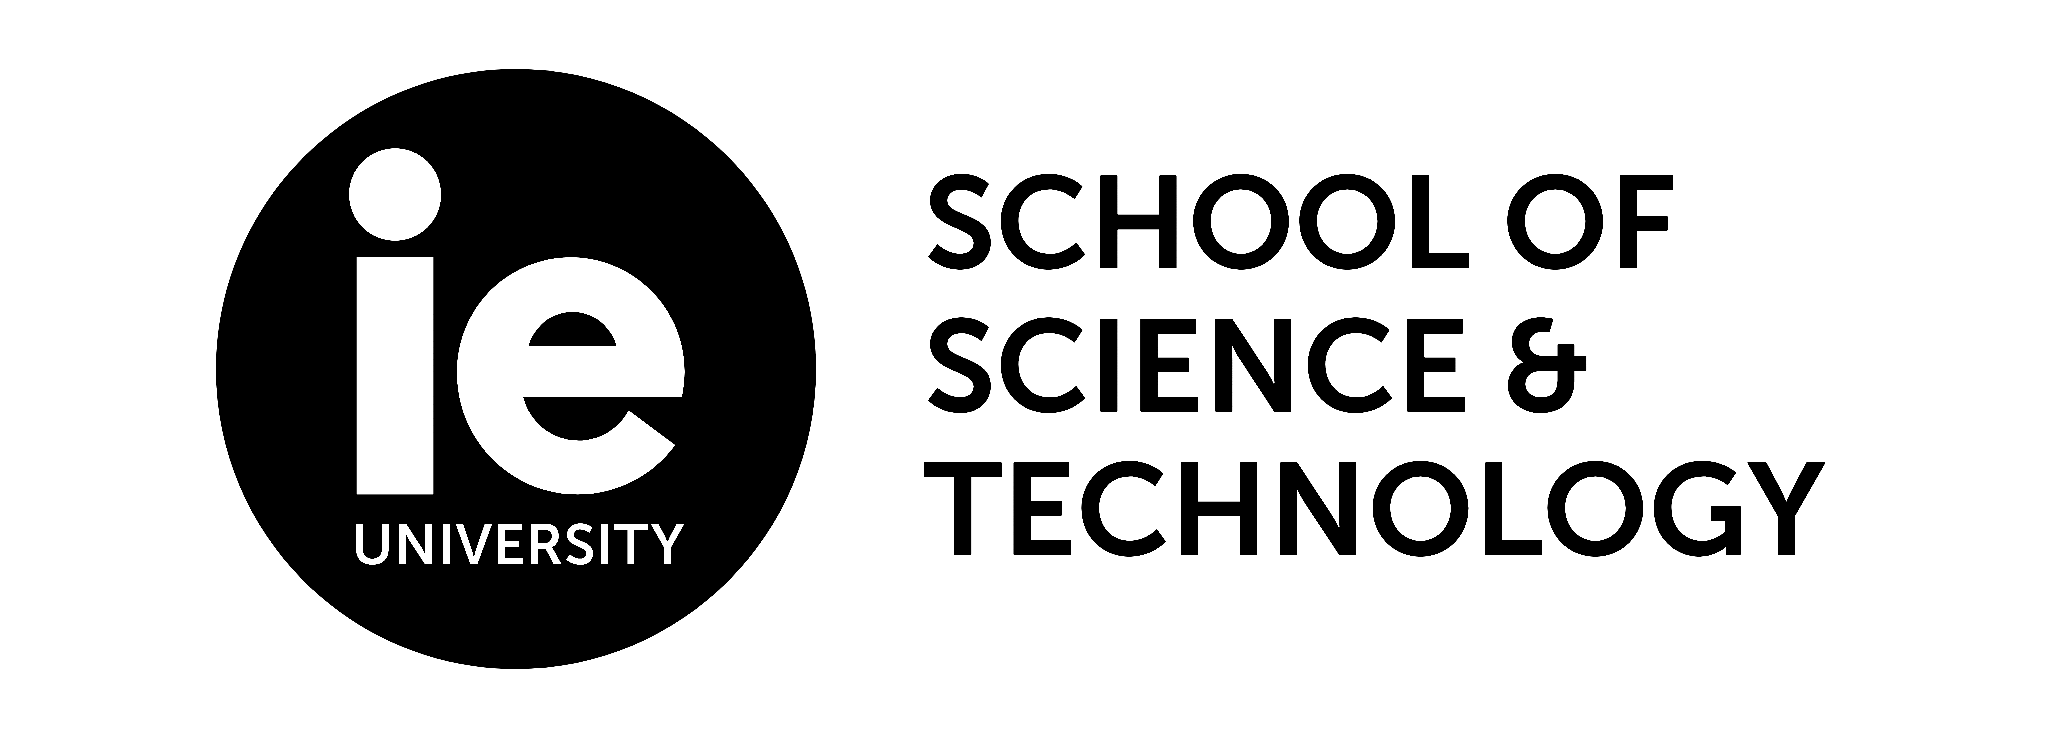
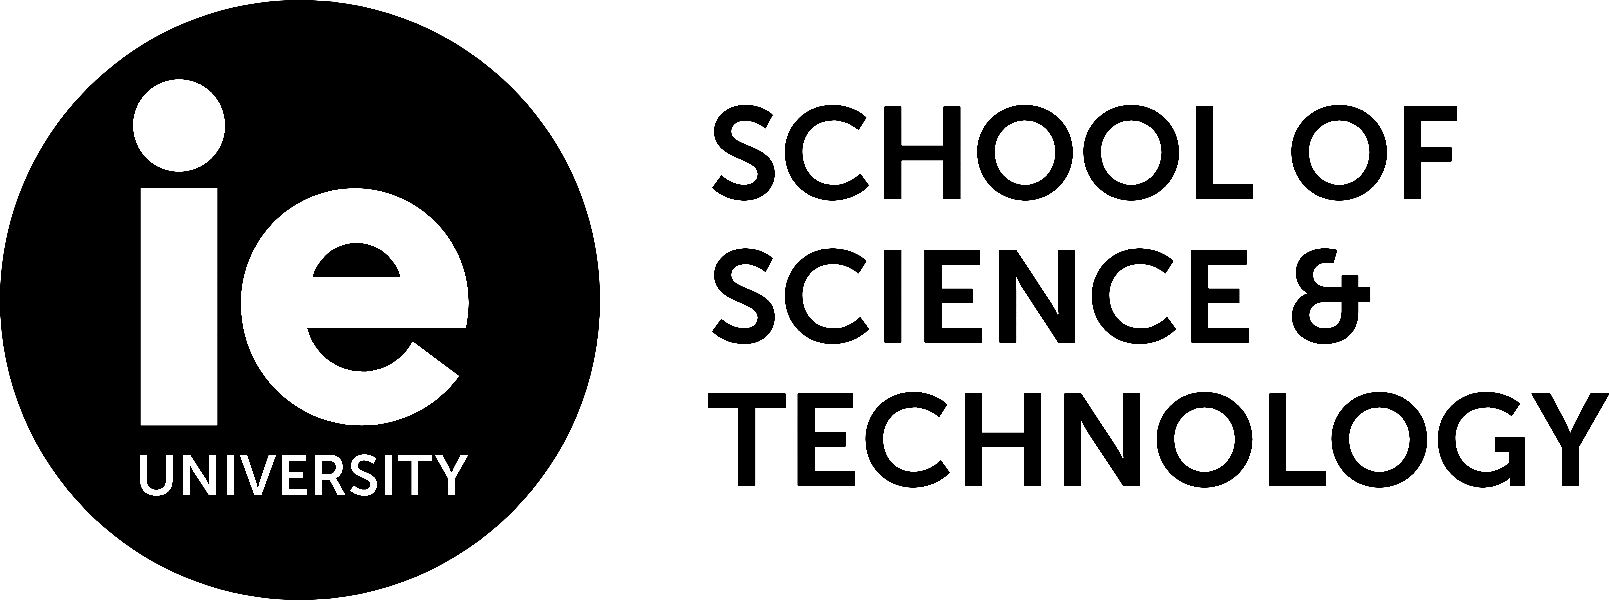
Bottom row: school left, IEX right, sized evenly with the columns above
Layout is now a 2x2 grid. The bottom row reuses .pair, so both small logos sit
on exactly the same column centres as the two logos above them (verified:
top/bottom centres identical, mirrored about the centre line).

Evenness needed two fixes:
- Trimmed transparent padding off both assets. AccentColo.png filled only 17%
  of its square canvas vs school1.png's 62%, so identical boxes would have
  rendered wildly different visual sizes. Now 1609x600 and 323x61.
- Their aspects still differ a lot (2.68 vs 5.30), so left to fill their cells
  IEX rendered 595x112 against school's 348x130. --small-width caps both to one
  width (now 464 each); margin-inline:auto keeps each centred in its own half.

AccentColo.png is navy on transparency, near-invisible on this backdrop, so it
gets brightness(0) invert(1) to force white. school1.png keeps plain invert(1):
its "ie" is knocked out of a solid disc and flattening would swallow it.

diff --git a/lab-display.html b/lab-display.html
@@ -10,8 +10,9 @@
   SETUP
   1. Set PLAYLIST_ID below to the "list=" value from the playlist URL.
         https://www.youtube.com/playlist?list=PLabc123...   ->  'PLabc123...'
-  2. Keep logo.png (top left), CPL_Logo.png (top right) and school1.png
-     (centred below the pair) in the same folder as this file.
+  2. Keep all four logos in the same folder as this file. They sit in a 2x2
+     grid: logo.png and CPL_Logo.png on top, school1.png and AccentColo.png
+     smaller beneath them.
   3. Serve the folder over HTTP — opening the file directly with file:// breaks
      the YouTube embed:
         cd /path/to/this/folder
@@ -28,7 +29,8 @@
     --row-height: 58vh;         /* height of the top pair */
     --stack-gap: 2vh;           /* pair -> school logo */
     --wordmark-lift: 6vh;       /* how much higher the right logo rides */
-    --school-height: 24vh;      /* size of the school lockup below */
+    --small-height: 18vh;       /* height of the bottom pair's cells */
+    --small-width: 28%;         /* both bottom logos render to this width */
     --fade: 700ms;
   }
 
@@ -52,12 +54,20 @@
   }
   #logo.visible { opacity: 1; visibility: visible; }
 
-  /* Top pair: each takes half the width, contain keeps its own aspect ratio. */
+  /* Both rows split the width in half, so all four logos share two columns
+     and the card stays symmetrical about the centre line. */
   #logo .pair {
     display: flex; align-items: center; justify-content: center;
     gap: var(--logo-gap); width: 100%; height: var(--row-height);
   }
+  #logo .pair.small { height: var(--small-height); }
   #logo .pair img { flex: 1 1 0; min-width: 0; max-height: 100%; object-fit: contain; }
+
+  /* The bottom two have very different aspect ratios (2.68 vs 5.30), so left to
+     fill their cells they'd render at wildly different sizes. Capping both to
+     one width makes them even; the auto margins keep each centred on the same
+     column as the logo above it. */
+  #logo .pair.small img { max-width: var(--small-width); margin-inline: auto; }
 
   /* CPL_Logo.png is black-on-white, the inverse of logo.png's white-on-dark.
      Inverting it gives white-on-black, and screen blending drops that black
@@ -68,11 +78,16 @@
   }
 
   /* school1.png is black artwork on transparency, so inverting alone turns it
-     white — no blend mode needed, the transparency already lets the card show. */
-  #logo .school {
-    height: var(--school-height); max-width: 45%;
-    object-fit: contain; filter: invert(1);
-  }
+     white — no blend mode needed, the transparency already lets the card show.
+     Plain invert is required here: the "ie" is knocked out of a solid disc, and
+     flattening to a silhouette first would swallow the letters. */
+  #logo .school { filter: invert(1); }
+
+  /* AccentColo.png is navy (#000066) on transparency, which would read as near
+     black on this backdrop. brightness(0) flattens it to a silhouette and
+     invert(1) turns that white, matching the other three. Safe here because
+     the wordmark has no knocked-out detail to lose. */
+  #logo .iex { filter: brightness(0) invert(1); }
 
   /* Browsers block sound until someone interacts with the page once. */
   #start {
@@ -95,7 +110,10 @@
     <img src="logo.png" alt="">
     <img class="wordmark" src="CPL_Logo.png" alt="">
   </div>
-  <img class="school" src="school1.png" alt="">
+  <div class="pair small">
+    <img class="school" src="school1.png" alt="">
+    <img class="iex" src="AccentColo.png" alt="">
+  </div>
 </div>
 
 <button id="start" type="button">Click to start the display</button>
